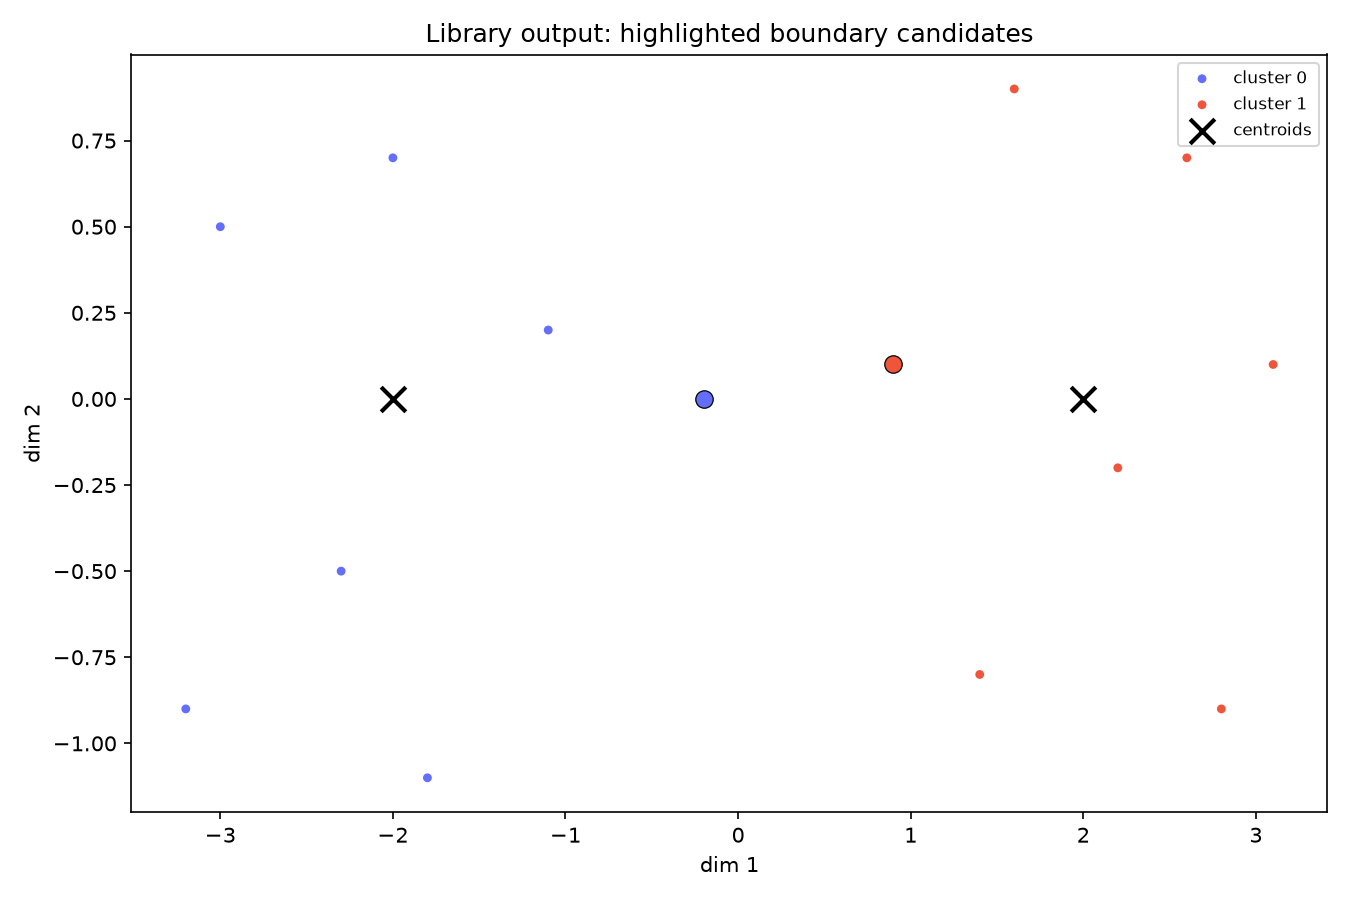
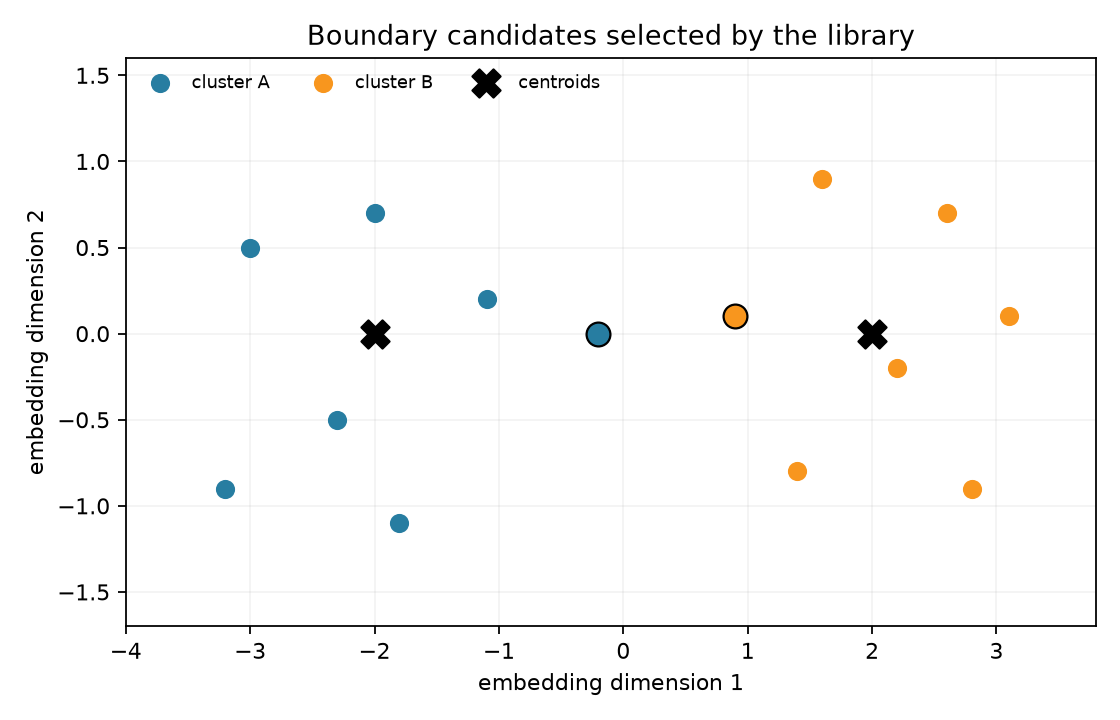
Align saved documentation figures and remove generator

diff --git a/docs/examples/visualize.md b/docs/examples/visualize.md
@@ -52,7 +52,8 @@ The 2D projection helps inspect clusters, but the boundary method ranks in
 the original vector space. A projected overlap does not prove a high-dimensional
 boundary. See [Boundary Methods](../concepts/boundary_methods.md) for the scores.
 
-This static plot was produced by `export_png` from a small 2D example. Its
-larger, outlined points are the highest Voronoi-ratio candidate in each cluster:
+This saved illustration uses the same points, axis ranges, and proportions as
+the method diagrams. Its larger, outlined points are the highest Voronoi-ratio
+candidates selected by `voronoi_rankings` in each cluster:
 
 ![Library plot of two clusters, their centroids, and two highlighted Voronoi boundary candidates.](../_static/figures/library-plot.png)
